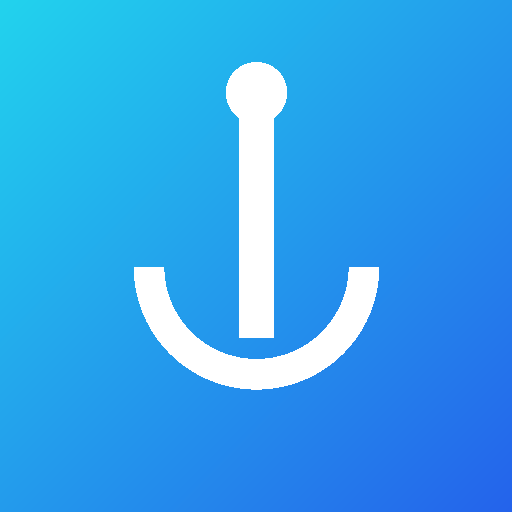
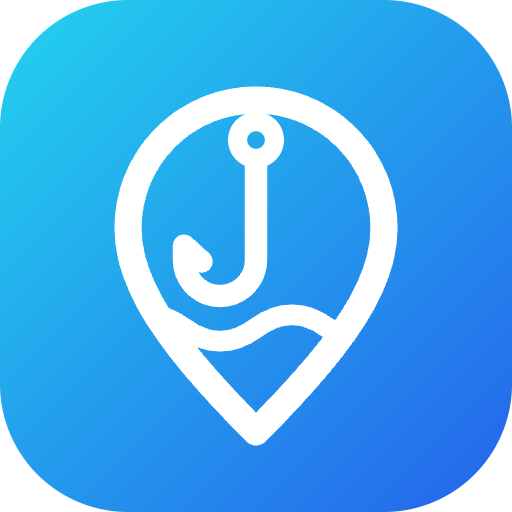
Canva 시안 기반 디자인 리프레시: 핀·바늘·물결 심볼, 라인 아이콘, 로그인 이용 안내 접기 (v1.4.0)

diff --git a/index.html b/index.html
@@ -9,7 +9,7 @@
   <link rel="manifest" href="manifest.webmanifest">
   <link rel="icon" href="assets/icon.svg" type="image/svg+xml">
   <link rel="apple-touch-icon" href="assets/icon-192.png">
-  <link rel="stylesheet" href="style.css?v=1.3.23">
+  <link rel="stylesheet" href="style.css?v=1.4.0">
 </head>
 <body>
   <!-- 로그인 화면 -->
@@ -19,17 +19,17 @@
       <h1>어디물어</h1>
       <p class="sub">바다낚시 출조 AI 에이전트 · MVP 테스트</p>
       <form id="loginForm" autocomplete="on">
-        <label>이메일<input id="loginId" name="username" autocomplete="username" autocapitalize="none" spellcheck="false" required maxlength="254"></label>
-        <label>비밀번호<input id="loginPw" name="password" type="password" autocomplete="current-password" required maxlength="128"></label>
+        <label>이메일<input id="loginId" name="username" inputmode="email" placeholder="이메일 주소" autocomplete="username" autocapitalize="none" spellcheck="false" required maxlength="254"></label>
+        <label>비밀번호<input id="loginPw" name="password" type="password" placeholder="비밀번호" autocomplete="current-password" required maxlength="128"></label>
         <button type="submit" id="loginBtn">로그인</button>
       </form>
       <p id="loginMsg" class="login-msg" role="alert"></p>
-      <ul class="login-notes">
+      <details class="login-notes-wrap"><summary>이용 안내</summary><ul class="login-notes">
         <li>로그인 1회당 이용 시간은 <b id="sessionMinutesNote">10</b>분이며, 시간이 지나면 자동 로그아웃됩니다.</li>
         <li>질문 수와 AI 사용량에 하루 한도가 있습니다.</li>
         <li>대화 내용은 서비스 개선과 운영을 위해 30일간 보관되며, 출발지는 시·군·구 단위로만 저장합니다.</li>
         <li>로그인한 시각부터 24시간이 지나면 다시 이용할 수 있어요. 로그아웃해도 다음 이용 시각은 바뀌지 않습니다.</li>
-      </ul>
+      </ul></details>
       <a class="link-btn" href="register.html">처음이신가요? 이용 신청하기</a>
     </div>
   </section>
@@ -38,11 +38,11 @@
     <header class="top">
       <div class="brand">
         <img src="assets/icon.svg" alt="" width="34" height="34">
-        <div><h1>어디물어</h1><p>바다낚시 안전·출조 매니저</p></div>
+        <div><h1>어디물어</h1><p>바다낚시 출조 AI</p></div>
       </div>
       <div class="top-right">
         <span id="timer" class="timer" hidden title="남은 이용 시간">10:00</span>
-        <button id="btnSettings" class="icon-btn" aria-label="설정">⚙</button>
+        <button id="btnSettings" class="icon-btn" aria-label="설정"><svg viewBox="0 0 24 24" width="20" height="20" fill="none" stroke="currentColor" stroke-width="1.8" stroke-linecap="round" stroke-linejoin="round" aria-hidden="true"><circle cx="12" cy="12" r="3"/><path d="M19.4 15a1.7 1.7 0 0 0 .3 1.8l.1.1a2 2 0 1 1-2.8 2.8l-.1-.1a1.7 1.7 0 0 0-1.8-.3 1.7 1.7 0 0 0-1 1.5V21a2 2 0 1 1-4 0v-.1a1.7 1.7 0 0 0-1.1-1.5 1.7 1.7 0 0 0-1.8.3l-.1.1a2 2 0 1 1-2.8-2.8l.1-.1a1.7 1.7 0 0 0 .3-1.8 1.7 1.7 0 0 0-1.5-1H3a2 2 0 1 1 0-4h.1a1.7 1.7 0 0 0 1.5-1.1 1.7 1.7 0 0 0-.3-1.8l-.1-.1a2 2 0 1 1 2.8-2.8l.1.1a1.7 1.7 0 0 0 1.8.3H9a1.7 1.7 0 0 0 1-1.5V3a2 2 0 1 1 4 0v.1a1.7 1.7 0 0 0 1 1.5 1.7 1.7 0 0 0 1.8-.3l.1-.1a2 2 0 1 1 2.8 2.8l-.1.1a1.7 1.7 0 0 0-.3 1.8V9a1.7 1.7 0 0 0 1.5 1H21a2 2 0 1 1 0 4h-.1a1.7 1.7 0 0 0-1.5 1z"/></svg></button>
       </div>
     </header>
     <div id="aiLock" class="ai-lock" role="alert" hidden><h2>잠시 이용이 어려워요</h2><p id="aiLockMsg"></p><div class="ai-lock-actions"><a id="aiLockAdmin" class="ai-lock-btn primary" href="admin.html" hidden>관리자 페이지로 이동</a><button type="button" id="aiLockLogout" class="ai-lock-btn">로그아웃</button></div></div>
@@ -73,12 +73,12 @@
 
     <form id="composer" class="composer" autocomplete="off">
       <input id="msg" name="msg" placeholder="예) 이번주 토요일 부산 추천해줘" aria-label="메시지" maxlength="500">
-      <button type="submit" aria-label="보내기">➤</button>
+      <button type="submit" aria-label="보내기"><svg viewBox="0 0 24 24" width="22" height="22" fill="none" stroke="currentColor" stroke-width="2.4" stroke-linecap="round" stroke-linejoin="round" aria-hidden="true"><path d="M12 19V5M5 12l7-7 7 7"/></svg></button>
     </form>
     <nav class="tabs">
-      <button data-tab="chat" class="active">💬<span>대화</span></button>
-      <button data-tab="brief">🧭<span>브리핑</span></button>
-      <button data-tab="points">📍<span>포인트</span></button>
+      <button data-tab="chat" class="active"><svg viewBox="0 0 24 24" width="22" height="22" fill="none" stroke="currentColor" stroke-width="1.8" stroke-linecap="round" stroke-linejoin="round" aria-hidden="true"><path d="M21 12a8 8 0 0 1-11.6 7.1L4 20.5l1.4-4.9A8 8 0 1 1 21 12z"/></svg><span>대화</span></button>
+      <button data-tab="brief"><svg viewBox="0 0 24 24" width="22" height="22" fill="none" stroke="currentColor" stroke-width="1.8" stroke-linecap="round" stroke-linejoin="round" aria-hidden="true"><circle cx="12" cy="12" r="9"/><path d="M15.5 8.5l-2 5-5 2 2-5z"/></svg><span>브리핑</span></button>
+      <button data-tab="points"><svg viewBox="0 0 24 24" width="22" height="22" fill="none" stroke="currentColor" stroke-width="1.8" stroke-linecap="round" stroke-linejoin="round" aria-hidden="true"><path d="M12 21c-4.5-4.8-7-8.6-7-12a7 7 0 0 1 14 0c0 3.4-2.5 7.2-7 12z"/><circle cx="12" cy="9" r="2.5"/></svg><span>포인트</span></button>
     </nav>
   </div>
 
@@ -126,7 +126,7 @@
       <div class="row"><button type="submit">변경</button><button type="button" id="pwCancel" class="ghost">취소</button></div>
     </form>
   </dialog>
-  <script src="config.js?v=1.3.23"></script><script src="telemetry.js?v=1.3.23"></script>
-  <script src="app.js?v=1.3.23" type="module"></script>
+  <script src="config.js?v=1.4.0"></script><script src="telemetry.js?v=1.4.0"></script>
+  <script src="app.js?v=1.4.0" type="module"></script>
 </body>
 </html>

diff --git a/style.css b/style.css
@@ -145,3 +145,61 @@ ul.list.stack li{flex-direction:column;gap:1px}ul.list.stack .m{white-space:norm
 @media (prefers-reduced-motion:reduce){.today-tip{animation:none}}
 
 .msg.web-ref{border-color:#475569;background:#141d2e}.web-ref-src{margin-top:6px;font-size:12px}.web-ref-src a{color:#93c5fd;font-weight:600;overflow-wrap:anywhere}.web-ref-note{margin-top:4px;font-size:11px;color:var(--dim);line-height:1.5}
+
+/* ==== 디자인 리프레시 v1.4.0 (Canva 시안: 새벽 바다 · 심플) ==== */
+:root{--bg:#0b1220;--panel:#111a2e;--panel2:#16213a;--line:#1f2c47;--text:#e8eef8;--dim:#8ea0bd;--grad:linear-gradient(135deg,#22d3ee,#2563eb);--r:16px}
+html,body{background:#070c17;font-family:"Pretendard",-apple-system,BlinkMacSystemFont,"Apple SD Gothic Neo","Noto Sans KR",sans-serif;letter-spacing:-.01em}
+.app{background:linear-gradient(180deg,#0c1426 0,#0b1220 220px);border-color:#0f1830}
+.top{padding:calc(12px + env(safe-area-inset-top)) 16px 10px;border-bottom:0;background:rgba(11,18,32,.85);backdrop-filter:blur(10px);-webkit-backdrop-filter:blur(10px)}
+.brand img{border-radius:10px;box-shadow:0 4px 14px rgba(34,211,238,.25)}
+.brand h1{font-size:17px;letter-spacing:-.02em}.brand p{font-size:11.5px}
+.icon-btn{display:grid;place-items:center;width:40px;height:40px;border-radius:12px;background:transparent;border:1px solid var(--line);color:#cbd5e1}
+.icon-btn:active{background:var(--panel2)}
+.timer{padding:5px 10px;border-color:#164e63;background:rgba(14,42,58,.6)}
+.status{padding:0 16px 4px}
+.chips{padding:2px 16px 10px}.chip{padding:4px 10px;background:transparent;color:#a9b8cf}
+main{border-top:1px solid var(--line)}
+.tab{padding:16px 14px 24px}
+.chat{gap:12px}
+.msg{padding:11px 14px;line-height:1.6;border-radius:18px}
+.msg.user{background:var(--grad);border-bottom-right-radius:6px;box-shadow:0 4px 14px rgba(37,99,235,.25)}
+.msg.bot{background:var(--panel);border-color:var(--line);border-bottom-left-radius:6px}
+.msg b{color:#67e8f9}
+.card{border-radius:18px;padding:14px;border-color:var(--line)}
+.card h3{font-size:15px;margin-bottom:8px}
+.top3 .item,.prow{background:var(--panel2);border-color:transparent;border-radius:14px;padding:12px}
+.top3 .item:active,.prow:active{border-color:#155e75}
+.rank{width:24px;height:24px;border-radius:8px;background:var(--grad)}
+.badge{padding:2px 9px;font-weight:700;border-width:1px}
+.metrics{gap:8px}.metric{border-radius:12px;padding:10px;background:var(--panel2);border-color:transparent}.metric .v{font-size:16px}
+.sec h4{color:#67e8f9}
+.actions button{background:transparent;border-color:#155e75;color:#a5f3fc;padding:7px 13px;font-size:13px}
+.composer{padding:10px 14px;gap:10px;border-top:1px solid var(--line);background:var(--bg)}
+.composer input{min-height:46px;padding:11px 16px;font-size:16px;background:var(--panel);border-color:var(--line)}
+.composer input:focus{border-color:#22d3ee;box-shadow:0 0 0 3px rgba(34,211,238,.15)}
+.composer button{width:46px;height:46px;flex:0 0 46px;display:grid;place-items:center;background:var(--grad);color:#fff;box-shadow:0 4px 14px rgba(37,99,235,.35)}
+.tabs{background:#0a1020;border-top:1px solid var(--line)}
+.tabs button{padding:8px 0 6px;gap:2px;color:#6b7c99}.tabs button span{font-size:11px;font-weight:600}
+.tabs button.active{color:#22d3ee}
+.origin-chip{min-height:36px;background:transparent}.origin-chip.active{background:rgba(34,211,238,.1);border-color:#22d3ee}
+/* 로그인·신청 */
+.login-view{background:radial-gradient(120% 60% at 50% 0%,#0f2a3d 0,#070c17 70%)}
+.login-card{border-radius:24px;padding:28px 22px;border-color:var(--line);background:rgba(17,26,46,.92);box-shadow:0 20px 50px rgba(0,0,0,.4)}
+.login-card>img{border-radius:16px;box-shadow:0 8px 24px rgba(34,211,238,.3)}
+.login-card h1{font-size:24px;letter-spacing:-.03em;margin-top:12px}
+.login-card input{min-height:48px;border-radius:12px;background:#0a1120}
+.login-card input:focus{outline:none;border-color:#22d3ee;box-shadow:0 0 0 3px rgba(34,211,238,.15)}
+.login-card button[type=submit]{min-height:50px;border-radius:14px;background:var(--grad);color:#fff;font-size:16px}
+.login-notes{list-style:none;padding:12px 14px;margin:16px 0 12px;border-radius:12px;background:rgba(10,17,32,.6);line-height:1.6}
+.login-notes li{position:relative;padding-left:12px}.login-notes li::before{content:"";position:absolute;left:0;top:.7em;width:4px;height:4px;border-radius:50%;background:#22d3ee}
+.link-btn{color:#67e8f9;text-decoration:none;font-weight:600;font-size:13px}
+dialog{border-radius:20px;border-color:var(--line)}
+.login-notes-wrap{margin:16px 0 12px;border-top:1px solid var(--line);border-bottom:1px solid var(--line);text-align:left}
+.login-notes-wrap summary{display:flex;align-items:center;justify-content:space-between;min-height:44px;padding:0 4px;font-size:13px;color:#a9b8cf;cursor:pointer;list-style:none}
+.login-notes-wrap summary::-webkit-details-marker{display:none}
+.login-notes-wrap summary::after{content:"";width:8px;height:8px;border-right:2px solid #8ea0bd;border-bottom:2px solid #8ea0bd;transform:rotate(45deg) translateY(-3px);transition:transform .2s}
+.login-notes-wrap[open] summary::after{transform:rotate(-135deg) translateY(-1px)}
+.login-notes-wrap .login-notes{margin:0 0 12px}
+.login-card input::placeholder{color:#55657f}
+#registerSubmit{min-height:50px;border:0;border-radius:14px;background:var(--grad);font-size:16px}#registerSubmit:hover{background:var(--grad);filter:brightness(1.08)}
+.login-card a.back-to-login,.login-card a.back-to-login:visited{border-color:var(--line);background:transparent;border-radius:14px}

diff --git a/register.html b/register.html
@@ -1,1 +1,1 @@
-<!doctype html><html lang="ko"><head><meta charset="utf-8"><meta name="viewport" content="width=device-width,initial-scale=1"><title>어디물어 · 이용 신청</title><link rel="stylesheet" href="style.css?v=1.3.23"></head><body><main class="login-view"><section class="login-card"><h1>어디물어 이용 신청</h1><p>관리자 승인 후 신청하신 이메일로 임시 비밀번호를 안내해 드려요.</p><form id="requestForm"><label>이메일 아이디<input name="loginId" type="email" maxlength="254" placeholder="test@gmail.com" required autocomplete="email" autocapitalize="none" spellcheck="false"></label><label>이름 또는 닉네임<input name="displayName" maxlength="40" required></label><label class="consent-row"><input id="signupConsent" name="consent" type="checkbox" required><span>가입 처리와 안내를 위한 이메일 아이디·이름 수집에 동의합니다. <strong>(필수)</strong></span></label><p class="hint">신청 정보는 처리 후 30일 이내 삭제합니다. 비밀번호나 집 주소는 적지 마세요. 일반 사용자는 로그인 후 10분간 이용할 수 있고, 로그인한 시각부터 24시간이 지나면 다시 이용할 수 있어요.</p><button id="registerSubmit" type="submit">가입 신청하기</button></form><p id="result" role="status" aria-live="polite" hidden></p><a class="back-to-login" href="./">로그인 화면으로 돌아가기</a></section></main><dialog id="registrationSuccess" class="registration-dialog" aria-labelledby="successTitle" aria-describedby="successDescription"><form method="dialog"><h2 id="successTitle">이용 신청이 접수되었어요</h2><p id="successDescription" style="white-space:pre-line">관리자가 확인한 뒤, 신청하신 이메일로 임시 비밀번호를 안내해 드리겠습니다. 조금만 기다려 주세요.</p><button type="submit" autofocus>확인</button></form></dialog><script src="config.js?v=1.3.23"></script><script src="telemetry.js?v=1.3.23"></script><script src="register.js?v=1.3.23" type="module"></script></body></html>
+<!doctype html><html lang="ko"><head><meta charset="utf-8"><meta name="viewport" content="width=device-width,initial-scale=1"><title>어디물어 · 이용 신청</title><link rel="stylesheet" href="style.css?v=1.4.0"></head><body><main class="login-view"><section class="login-card"><h1>어디물어 이용 신청</h1><p>관리자 승인 후 신청하신 이메일로 임시 비밀번호를 안내해 드려요.</p><form id="requestForm"><label>이메일 아이디<input name="loginId" type="email" maxlength="254" placeholder="test@gmail.com" required autocomplete="email" autocapitalize="none" spellcheck="false"></label><label>이름 또는 닉네임<input name="displayName" maxlength="40" required></label><label class="consent-row"><input id="signupConsent" name="consent" type="checkbox" required><span>가입 처리와 안내를 위한 이메일 아이디·이름 수집에 동의합니다. <strong>(필수)</strong></span></label><p class="hint">신청 정보는 처리 후 30일 이내 삭제합니다. 비밀번호나 집 주소는 적지 마세요. 일반 사용자는 로그인 후 10분간 이용할 수 있고, 로그인한 시각부터 24시간이 지나면 다시 이용할 수 있어요.</p><button id="registerSubmit" type="submit">가입 신청하기</button></form><p id="result" role="status" aria-live="polite" hidden></p><a class="back-to-login" href="./">로그인 화면으로 돌아가기</a></section></main><dialog id="registrationSuccess" class="registration-dialog" aria-labelledby="successTitle" aria-describedby="successDescription"><form method="dialog"><h2 id="successTitle">이용 신청이 접수되었어요</h2><p id="successDescription" style="white-space:pre-line">관리자가 확인한 뒤, 신청하신 이메일로 임시 비밀번호를 안내해 드리겠습니다. 조금만 기다려 주세요.</p><button type="submit" autofocus>확인</button></form></dialog><script src="config.js?v=1.4.0"></script><script src="telemetry.js?v=1.4.0"></script><script src="register.js?v=1.4.0" type="module"></script></body></html>

diff --git a/server-settings.html b/server-settings.html
@@ -1,1 +1,1 @@
-<!doctype html><html lang="ko"><head><meta charset="utf-8"><meta name="viewport" content="width=device-width,initial-scale=1"><meta name="robots" content="noindex"><title>어디물어 · 서버 연결 설정</title><link rel="stylesheet" href="style.css?v=1.3.23"></head><body><main class="login-view"><section class="login-card"><h1>서버 연결 설정</h1><p id="status" role="status">관리자 권한 확인 중…</p><span id="timer" hidden></span><form id="connection" hidden><label>백엔드 HTTPS 주소<input id="address" type="url" required autocomplete="off"></label><p>관리자 lonbehold 전용입니다. 이 브라우저의 연결 주소만 변경합니다. 저장하면 기존 세션을 종료하고 새 서버에서 다시 로그인합니다.</p><button type="submit">저장 후 다시 로그인</button></form><p><a href="./">모바일 웹으로 돌아가기</a></p></section></main><script src="config.js?v=1.3.23"></script><script src="telemetry.js?v=1.3.23"></script><script type="module" src="server-settings.js?v=1.3.23"></script></body></html>
+<!doctype html><html lang="ko"><head><meta charset="utf-8"><meta name="viewport" content="width=device-width,initial-scale=1"><meta name="robots" content="noindex"><title>어디물어 · 서버 연결 설정</title><link rel="stylesheet" href="style.css?v=1.4.0"></head><body><main class="login-view"><section class="login-card"><h1>서버 연결 설정</h1><p id="status" role="status">관리자 권한 확인 중…</p><span id="timer" hidden></span><form id="connection" hidden><label>백엔드 HTTPS 주소<input id="address" type="url" required autocomplete="off"></label><p>관리자 lonbehold 전용입니다. 이 브라우저의 연결 주소만 변경합니다. 저장하면 기존 세션을 종료하고 새 서버에서 다시 로그인합니다.</p><button type="submit">저장 후 다시 로그인</button></form><p><a href="./">모바일 웹으로 돌아가기</a></p></section></main><script src="config.js?v=1.4.0"></script><script src="telemetry.js?v=1.4.0"></script><script type="module" src="server-settings.js?v=1.4.0"></script></body></html>

diff --git a/admin.html b/admin.html
@@ -7,8 +7,8 @@
   <meta name="robots" content="noindex">
   <title>어디물어 · 관리자</title>
   <link rel="icon" href="assets/icon.svg" type="image/svg+xml">
-  <link rel="stylesheet" href="style.css?v=1.3.25">
-  <link rel="stylesheet" href="admin.css?v=1.3.25">
+  <link rel="stylesheet" href="style.css?v=1.4.0">
+  <link rel="stylesheet" href="admin.css?v=1.4.0">
 </head>
 <body>
   <div class="admin">
@@ -24,7 +24,7 @@
     <main id="view" class="aview"><p class="sub">불러오는 중…</p></main>
   </div>
   <dialog id="dlg"><form method="dialog" class="settings" id="dlgForm"></form></dialog>
-  <script src="config.js?v=1.3.25"></script><script src="telemetry.js?v=1.3.25"></script>
-  <script src="admin.js?v=1.3.25" type="module"></script>
+  <script src="config.js?v=1.4.0"></script><script src="telemetry.js?v=1.4.0"></script>
+  <script src="admin.js?v=1.4.0" type="module"></script>
 </body>
 </html>

diff --git a/app.js b/app.js
@@ -7,7 +7,7 @@ const GATE = { PASS: '안전 양호', PASS_WITH_CAUTION: '조건부 주의', REV
 const badge = g => g ? `<span class="badge b-${esc(g)}">${esc(GATE[g] ?? g)}</span>` : '';
 
 // ---- 설정·인증(auth.js) ----
-import { state, setApi, api, health, login, logout, startTimer, syncExpiry, saveAuth, setOnAuthLost, setOnMustChange, loadAuthImage, remaining, sessionMinutes } from './auth.js?v=1.3.23';
+import { state, setApi, api, health, login, logout, startTimer, syncExpiry, saveAuth, setOnAuthLost, setOnMustChange, loadAuthImage, remaining, sessionMinutes } from './auth.js?v=1.4.0';
 let SID = localStorage.getItem('gofishing.session') || (crypto.randomUUID?.() ?? String(Date.now()) + Math.random().toString(16).slice(2));
 localStorage.setItem('gofishing.session', SID);
 let slots = {}, lastBriefing = null, timer = null, usageText = '';

diff --git a/admin.js b/admin.js
@@ -1,6 +1,6 @@
-import { approvalMailto } from './approval-email.js?v=1.3.25';
+import { approvalMailto } from './approval-email.js?v=1.4.0';
 // 어디물어 관리자 화면: 계정·세션·사용량·대화 로그·로그인/작업 기록. 관리자 계정으로 로그인한 탭에서만 동작.
-import { state, api, health, startTimer, syncExpiry, setOnAuthLost, logout } from './auth.js?v=1.3.25';
+import { state, api, health, startTimer, syncExpiry, setOnAuthLost, logout } from './auth.js?v=1.4.0';
 const $ = s => document.querySelector(s);
 const esc = s => String(s ?? '').replace(/[&<>"']/g, c => ({ '&': '&amp;', '<': '&lt;', '>': '&gt;', '"': '&quot;', "'": '&#39;' }[c]));
 const dt = v => v ? new Date(v).toLocaleString('ko-KR', { timeZone: 'Asia/Seoul', month: '2-digit', day: '2-digit', hour: '2-digit', minute: '2-digit' }) : '-';

diff --git a/sw.js b/sw.js
@@ -1,5 +1,5 @@
 // 앱 셸만 캐시(오프라인 첫 화면). API 응답은 캐시하지 않는다(예보·특보는 항상 최신 조회).
-const CACHE = 'gofishing-shell-v32';
+const CACHE = 'gofishing-shell-v33';
 const SHELL = ['./', './manifest.webmanifest', './assets/icon.svg'];  // 버전 표시가 붙은 파일은 네트워크 우선으로 받는다
 self.addEventListener('install', e => e.waitUntil(caches.open(CACHE).then(c => c.addAll(SHELL)).then(() => self.skipWaiting())));
 self.addEventListener('activate', e => e.waitUntil(caches.keys().then(ks => Promise.all(ks.filter(k => k !== CACHE).map(k => caches.delete(k)))).then(() => self.clients.claim())));

diff --git a/server-settings.js b/server-settings.js
@@ -1,4 +1,4 @@
-import {state, api, saveAuth, setApi, logout, startTimer, syncExpiry, setOnAuthLost} from './auth.js?v=1.3.23';
+import {state, api, saveAuth, setApi, logout, startTimer, syncExpiry, setOnAuthLost} from './auth.js?v=1.4.0';
 const form = document.querySelector('#connection'), status = document.querySelector('#status');
 let verified = false;
 function deny(message) { verified = false; form.hidden = true; status.textContent = message; }

diff --git a/register.js b/register.js
@@ -1,4 +1,4 @@
-import {api} from './auth.js?v=1.3.23';
+import {api} from './auth.js?v=1.4.0';
 const form=document.querySelector('#requestForm');
 const result=document.querySelector('#result');
 const button=document.querySelector('#registerSubmit');

diff --git a/README.md b/README.md
@@ -52,3 +52,13 @@ node --test
 가입 승인 완료 팝업의 **메일 보내기**는 신청자 이메일을 받는 사람으로 지정하고, 서비스 접속 주소·임시 비밀번호·첫 로그인 후 비밀번호 변경 안내를 담은 `mailto:`를 사용자 클릭 시 생성합니다. 기본 메일 앱에서 내용을 확인하고 직접 전송해야 하며 자동 발송하지 않습니다. 메일 앱 설정이 없으면 열리지 않을 수 있습니다. 팝업은 메일 앱을 열어도 유지되며, 닫으면 비밀번호 입력 요소를 제거합니다. URL을 HTML 링크·저장소·로그에 미리 저장하지 않습니다. 계정 수동 발급·비밀번호 초기화 팝업에는 가입 승인 메일 버튼을 표시하지 않습니다.
 
 v1.3.25부터 **비밀번호 보기**(확인 버튼 색상)와 **메일 보내기**(취소 버튼 색상)는 하단 확인·취소와 같은 간격·크기의 한 줄 버튼으로 표시합니다.
+
+### 디자인 리프레시 (v1.4.0)
+
+Canva 시안(디자인 ID `DAHa_LjWivg`: 심볼·로그인·대화·브리핑·디자인 시스템 5장)을 기준으로 기존 화면 구조와 기능은 그대로 두고 표현만 정리했습니다.
+
+- 심볼: 위치 핀 안에 낚싯바늘과 물결(어디 + 물어 + 바다). `assets/icon.svg`, `icon-192/512.png` 교체
+- 색: 다크 네이비 배경 유지, 포인트는 시안 #22D3EE → 블루 #2563EB 그라데이션(`--grad`), 판정은 그린/앰버/로즈
+- 대화 화면: 상단바 블러, 라인 아이콘(설정·탭·보내기), 말풍선 18px 라운드, 칩·빠른 버튼 외곽선형, 입력창 46px
+- 로그인: 입력 placeholder, 이용 안내 접기(`details`), 버튼 50px 그라데이션. 관리자 아이디가 이메일 형식이 아니므로 입력 형식은 텍스트 유지
+- 스타일은 `style.css` 끝의 `디자인 리프레시 v1.4.0` 블록에서 덮어써 이전 규칙과 분리했습니다.
